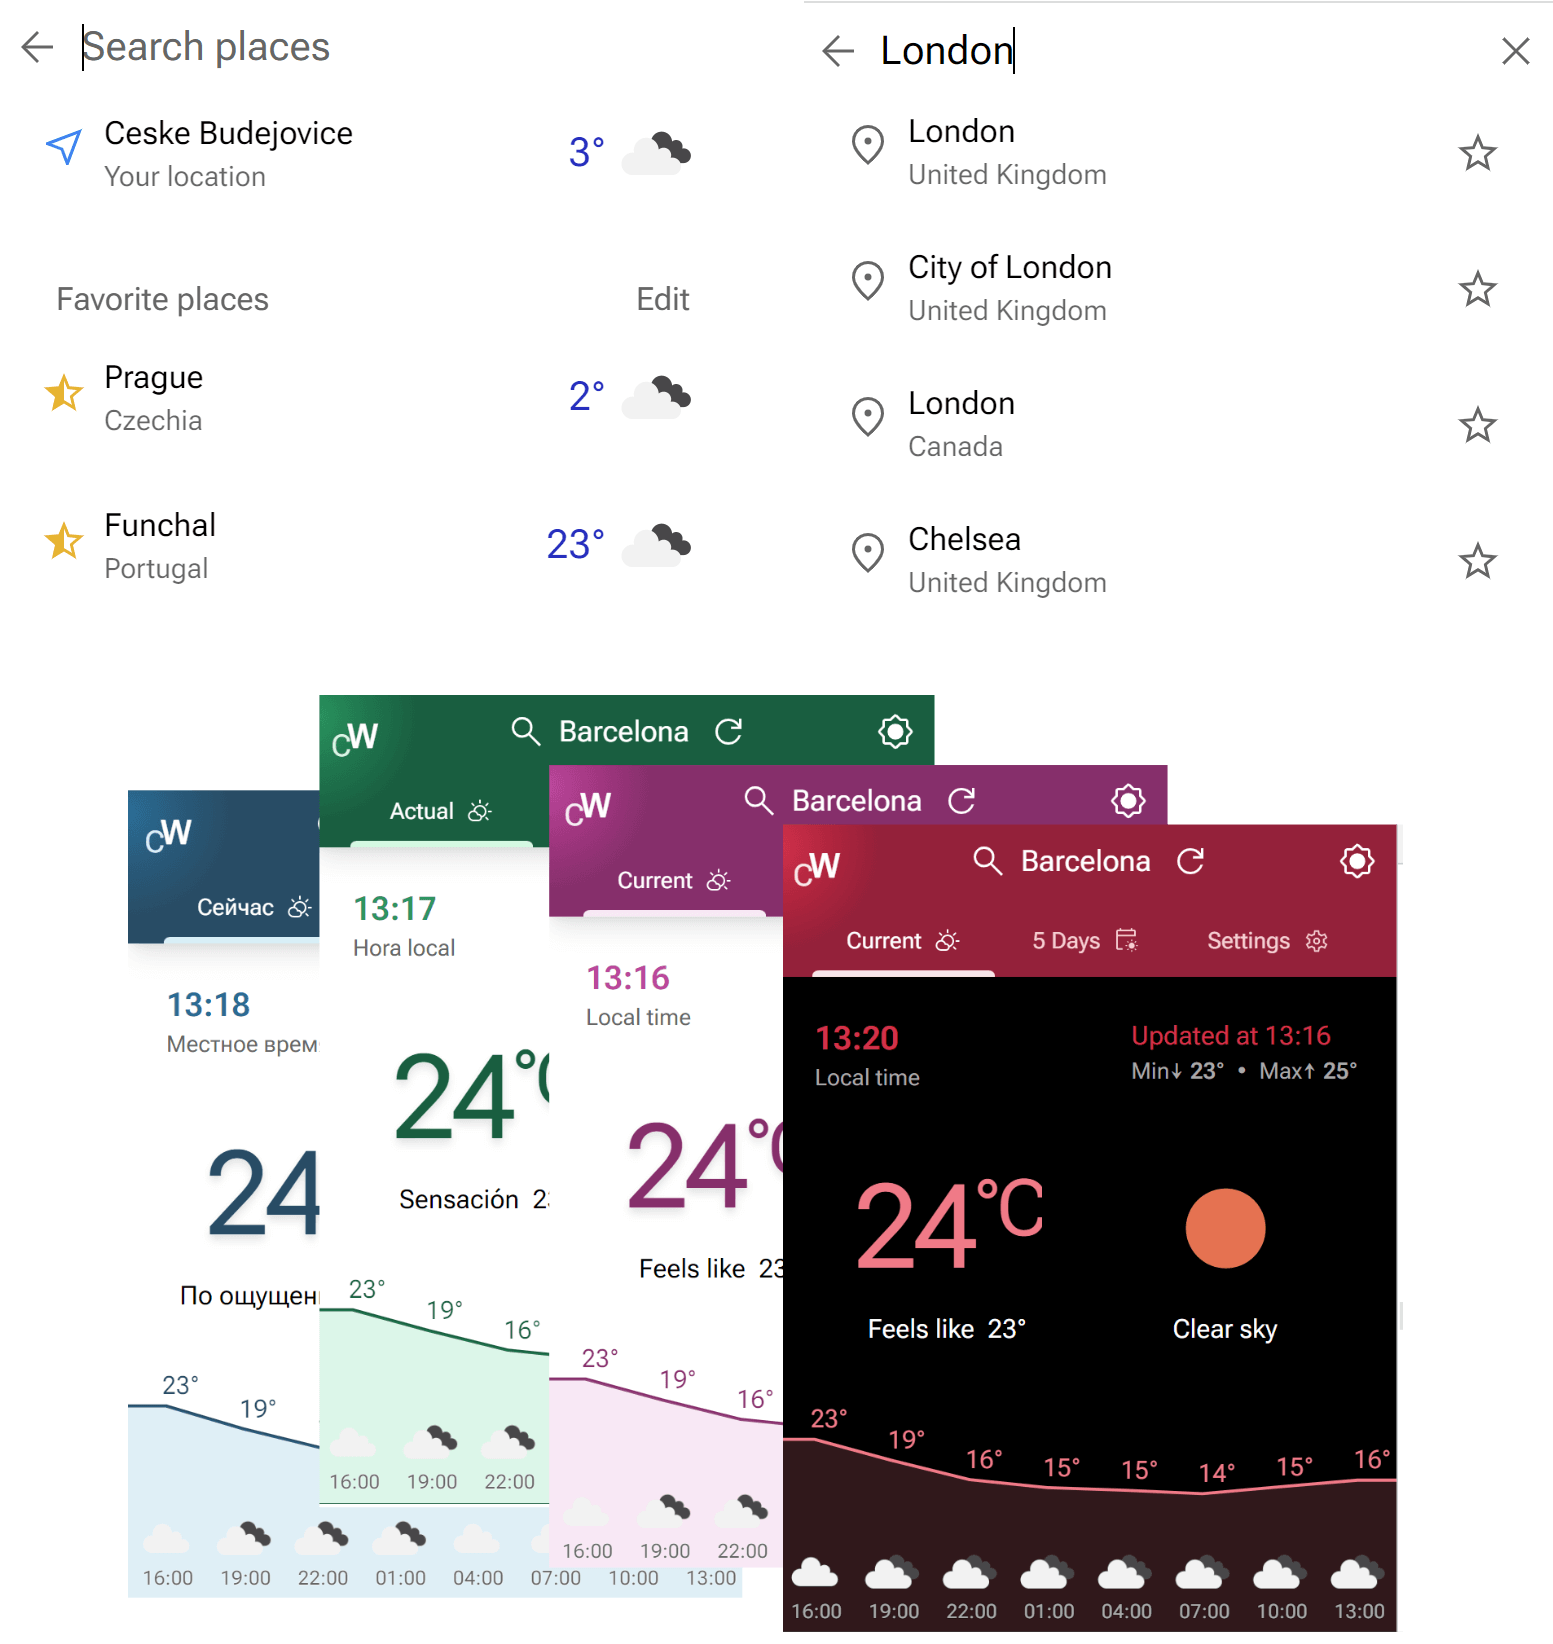
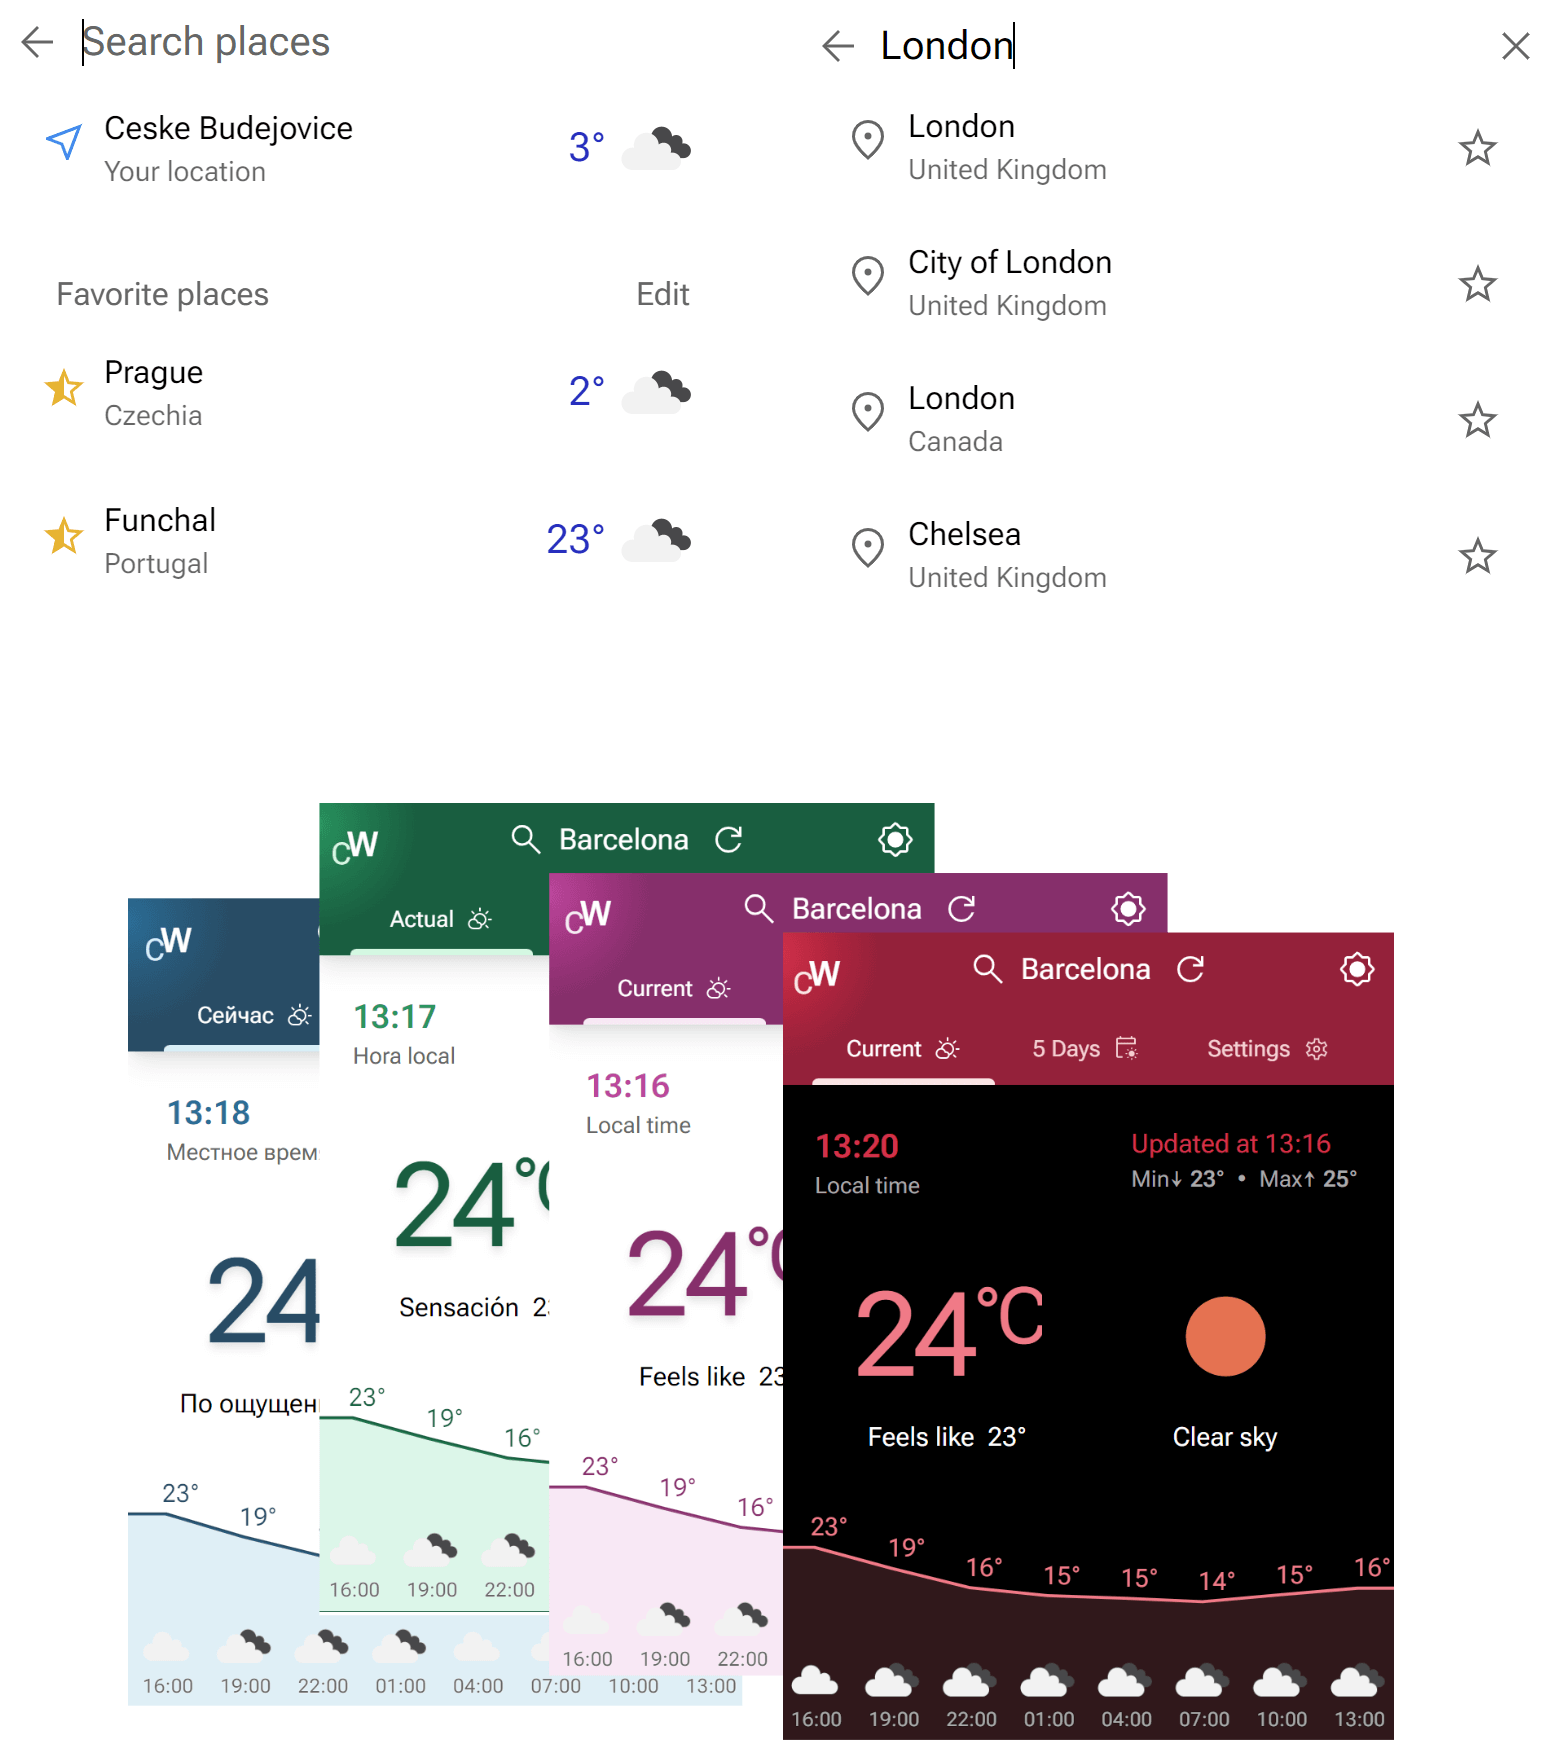
fix: docs

diff --git a/README.md b/README.md
@@ -6,7 +6,7 @@
 
 ## Features
 
-<img src="screenshots/composite-2.png" align="right" width="600px">
+<img src="screenshots/composite-2.png" align="right" width="450px">
 
 - Get a detailed **current** and **5-day weather forecast** for your current location and any city in the world.
 - **Search** for cities and add them to **favories** to check out conditions and forecasts later.
@@ -17,7 +17,7 @@
 
 ## Technologies
 
-- Developed with [Next.js 13](https://nextjs.org/) & [Tailwind CSS](https://tailwindcss.com/), the app uses modern technologies such as **Next.js API** routes and **mobile-first UI design** approach.
+- Developed with [Next.js 13](https://nextjs.org/) and [Tailwind CSS](https://tailwindcss.com/), the app uses modern technologies such as **Next.js API** routes and **mobile-first UI design** approach.
 - **Weather information** is fetched from [OpenWeather APIs](https://openweathermap.org/) and complemented by [BigData Cloud Reverse Geocoding APIs](https://www.bigdatacloud.com/packages/reverse-geocoding) for more precise location names.
 - **Color palletes** were generated with [Tailwind CSS Color Generator](https://uicolors.app/create).
 - [Material Symbols](https://fonts.google.com/icons) iconography
